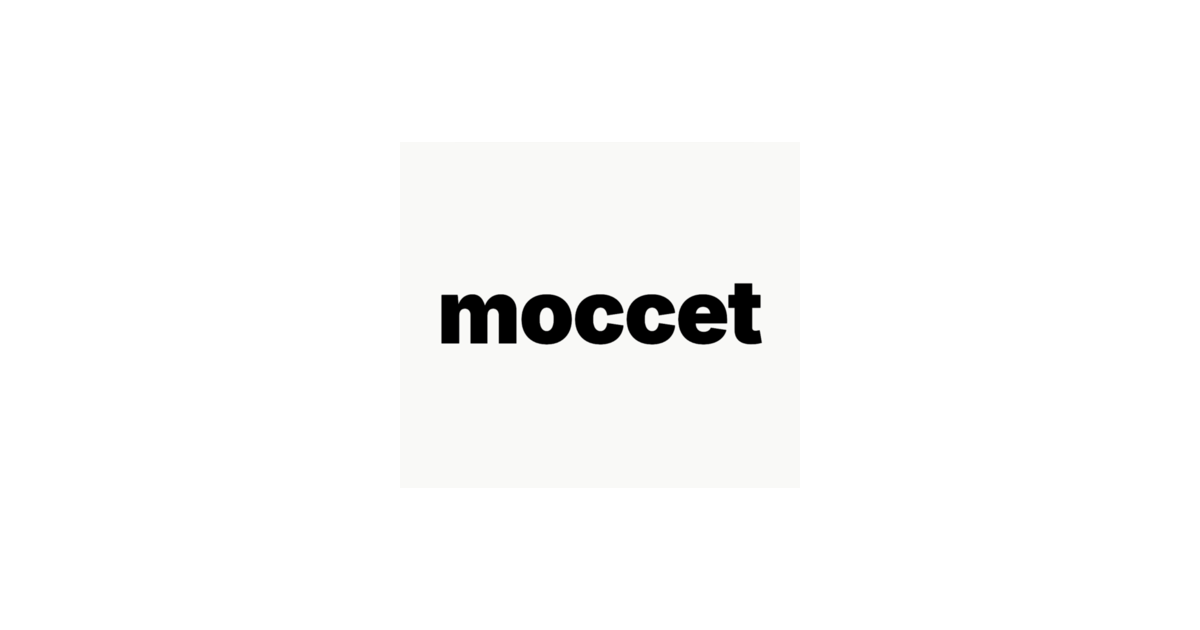
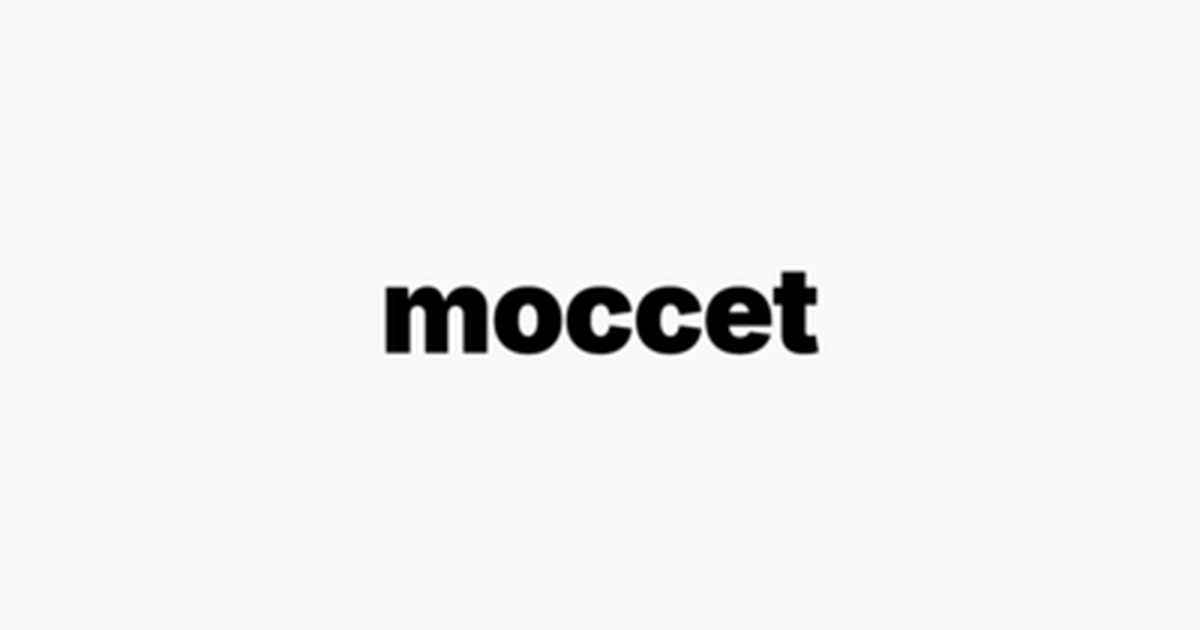
new update

Changed region(s): [[0.3083, 0.4222, 0.7092, 0.573]]

diff --git a/app/page.tsx b/app/page.tsx
@@ -39,20 +39,6 @@ export default function LandingPage() {
   return (
     <>
       <style jsx global>{`
-        * {
-          margin: 0;
-          padding: 0;
-          box-sizing: border-box;
-        }
-
-        body {
-          font-family: -apple-system, BlinkMacSystemFont, 'Segoe UI', Roboto, 'Helvetica Neue', Arial, sans-serif;
-          color: #333;
-          line-height: 1.6;
-          background: #f1f2f0;
-          -webkit-font-smoothing: antialiased;
-          -moz-osx-font-smoothing: grayscale;
-        }
 
         header {
           padding: 24px 40px;
@@ -66,7 +52,7 @@ export default function LandingPage() {
 
         header.scrolled {
           padding: 16px 40px;
-          background: rgba(241, 242, 240, 0.98);
+          background: rgba(249, 249, 247, 0.98);
           backdrop-filter: blur(10px);
           -webkit-backdrop-filter: blur(10px);
         }
@@ -597,7 +583,7 @@ export default function LandingPage() {
       </div>
 
       <footer>
-        <p>moccet © 2025 · <a href="#">Terms of service</a> · <a href="#">Privacy notice</a></p>
+        <p>moccet © 2025</p>
       </footer>
     </>
   );

diff --git a/app/globals.css b/app/globals.css
@@ -67,10 +67,11 @@
 
 body {
   font-family: var(--font-inter), -apple-system, BlinkMacSystemFont, 'Segoe UI', Helvetica, Arial, sans-serif;
-  background: #fff;
-  color: #000;
-  line-height: 1.5;
+  background: #f9f9f7;
+  color: #333;
+  line-height: 1.6;
   -webkit-font-smoothing: antialiased;
+  -moz-osx-font-smoothing: grayscale;
 }
 
 /* Moccet brand text should always use Inter Black */
